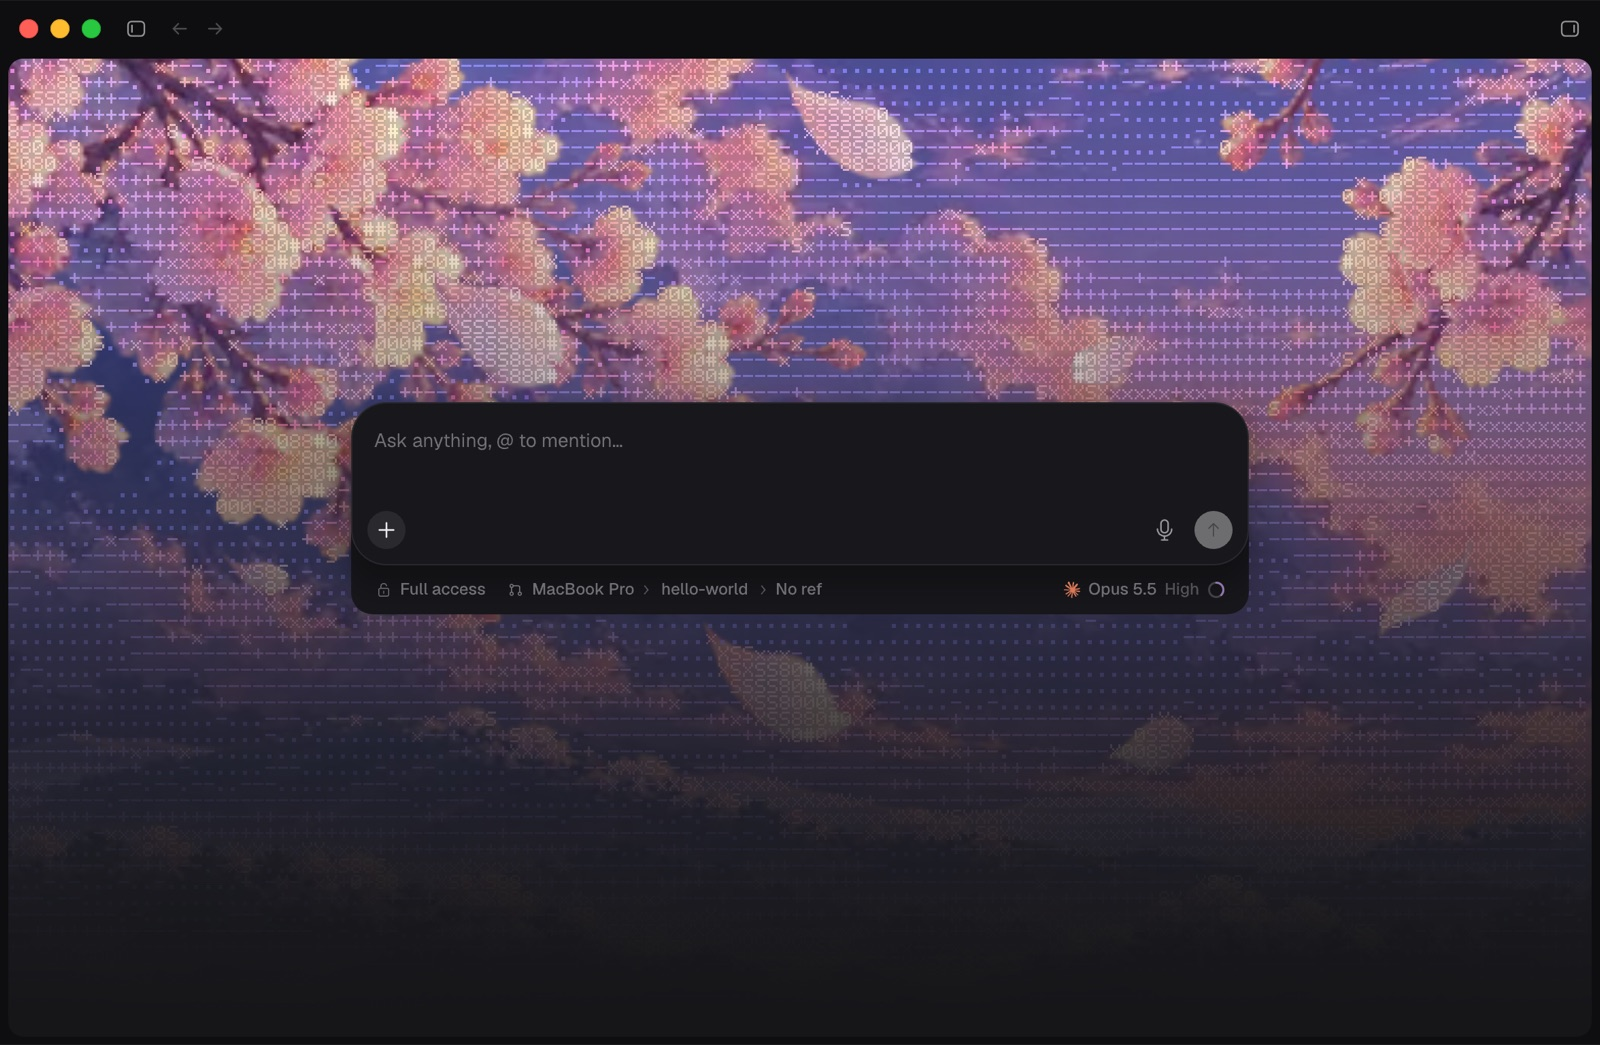
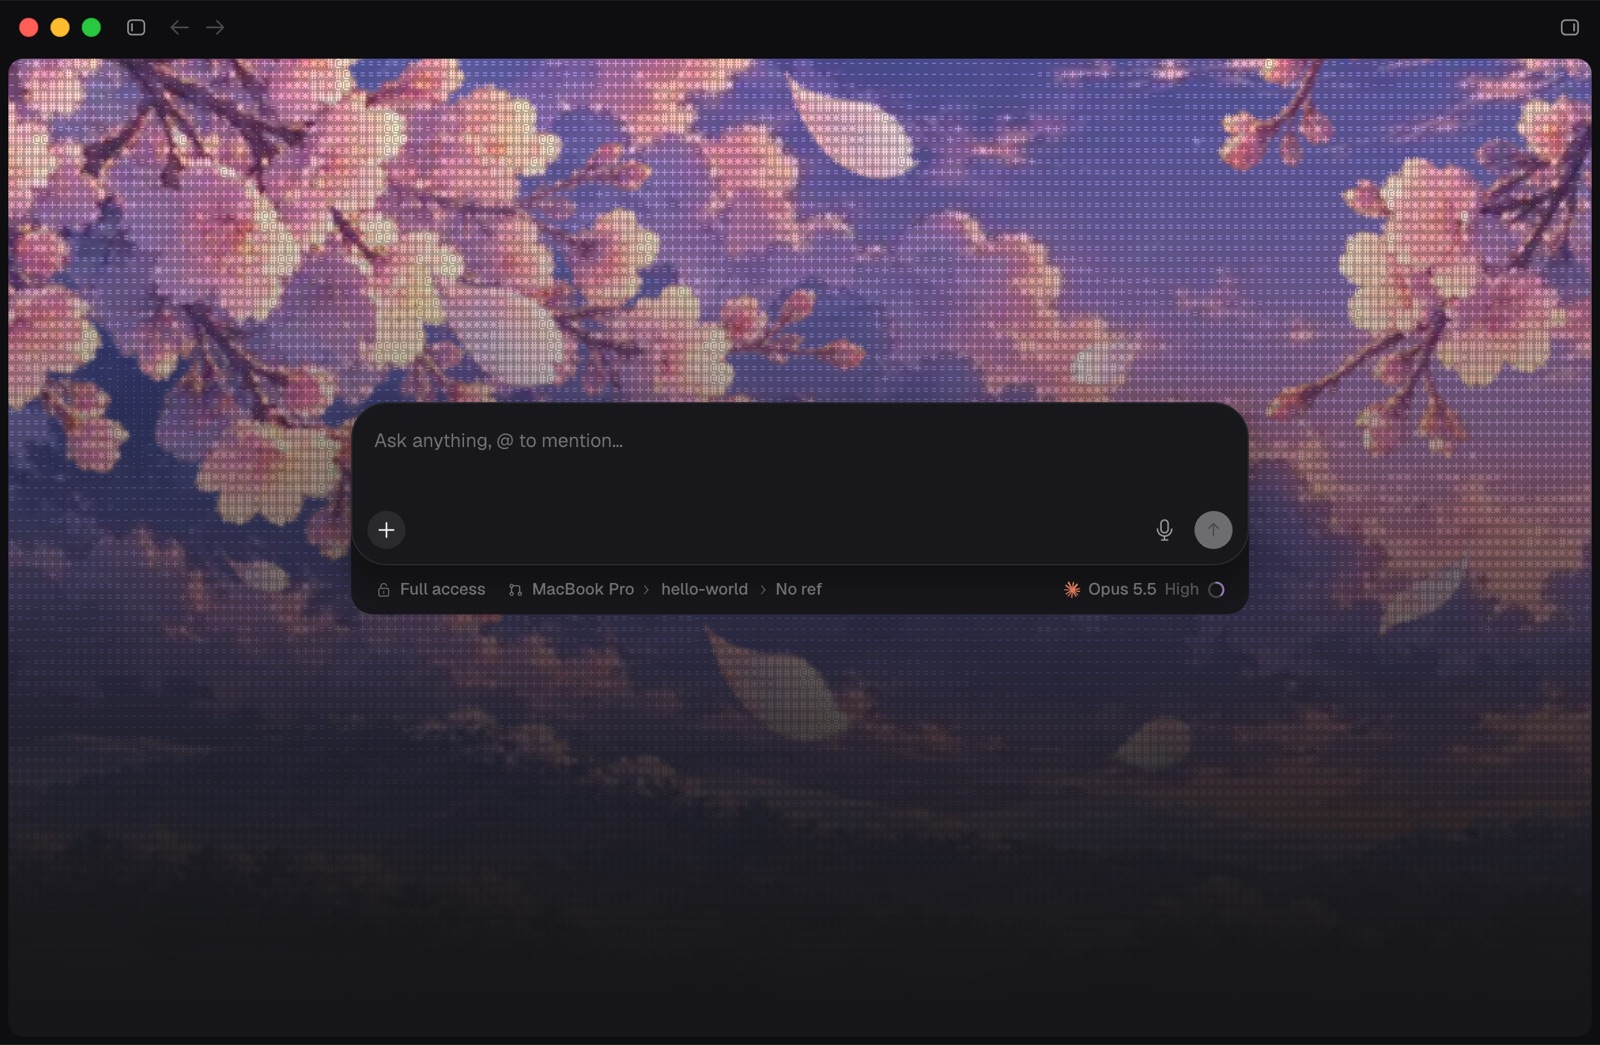
Landing hero: zeron/zgx's look, as the app people download
The hero now draws as zeron/zgx draws its new chat: that branch's ASCII
over the art's own box, and its title strip (the row on the lights'
20-point line, back and forward 21 across in the glyph stroke). Against a
native reference from zeron/zgx: MAE 0.03/255 at rest.

Changed region(s): [[0.0, 0.0306, 1.0, 0.6124], [0.9375, 0.5818, 0.9688, 0.6124]]

diff --git a/apps/landing/public/hero/chrome.js b/apps/landing/public/hero/chrome.js
@@ -76,7 +76,13 @@ const C = {
 // ---------------------------------------------------------------- icons
 
 // ds/icon_svgs.luau, as the app draws them (currentColor is the tint).
+// (A title bar's back and forward, as zeron/zgx draws them: 21 across, their
+// lines in the theme's glyph stroke, 1.1667 points: ds/icon.luau
+// `in_glyph_stroke`.)
+const BAR_STROKE = (1.1667 * 24) / 21;
 const ICONS = {
+  "bar-left": `<svg xmlns="http://www.w3.org/2000/svg" viewBox="0 0 24 24" fill="none" stroke="currentColor" stroke-width="${BAR_STROKE}" stroke-linecap="round" stroke-linejoin="round"><path d="M19 12H5m5.5-5.5L5 12l5.5 5.5"/></svg>`,
+  "bar-right": `<svg xmlns="http://www.w3.org/2000/svg" viewBox="0 0 24 24" fill="none" stroke="currentColor" stroke-width="${BAR_STROKE}" stroke-linecap="round" stroke-linejoin="round"><path d="M5 12h14m-5.5-5.5L19 12l-5.5 5.5"/></svg>`,
   monitor: '<svg xmlns="http://www.w3.org/2000/svg" width="1em" height="1em" viewBox="0 0 24 24"><g fill="none" stroke="currentColor" stroke-width="1.5"><path d="M2 10c0-3.771 0-5.657 1.172-6.828S6.229 2 10 2h4c3.771 0 5.657 0 6.828 1.172S22 6.229 22 10v1c0 2.828 0 4.243-.879 5.121C20.243 17 18.828 17 16 17H8c-2.828 0-4.243 0-5.121-.879C2 15.243 2 13.828 2 11z"/><path stroke-linecap="round" d="M16 22H8m4-5v5m10-9H2"/></g></svg>',
   cloud: '<svg xmlns="http://www.w3.org/2000/svg" viewBox="0 0 24 24" fill="none"><path d="M7.25 18.5h10.1a4.15 4.15 0 0 0 .45-8.27A6.25 6.25 0 0 0 5.9 8.85a4.85 4.85 0 0 0 1.35 9.65Z" stroke="currentColor" stroke-width="1.5" stroke-linecap="round" stroke-linejoin="round"/></svg>',
   "git-branch": '<svg xmlns="http://www.w3.org/2000/svg" viewBox="0 0 24 24" fill="none" stroke="currentColor" stroke-width="1.75" stroke-linecap="round" stroke-linejoin="round"><path d="M6 8.5v7M6 12h10a2 2 0 0 0 2-2V8.5"/><circle cx="6" cy="6.25" r="2.25"/><circle cx="6" cy="17.75" r="2.25"/><circle cx="18" cy="6.25" r="2.25"/></svg>',
@@ -326,11 +332,12 @@ function avatar(ctx, s, x, y, size) {
 }
 
 // macOS's window controls (native in the app: not in its own pictures):
-// 14-point lights centred 21 in and 23 apart (ds/title_bar.luau).
+// 14-point lights centred 21 in and 23 apart, on the bar's line, 20 down
+// (ds/title_bar.luau's LIGHTS_LINE on zeron/zgx).
 function trafficLights(ctx, s) {
   const lights = [["#ff5f57", "#e0443e"], ["#febc2e", "#dea123"], ["#28c840", "#1aab29"]];
   lights.forEach(([fill, edge], i) => {
-    const cx = 21 + i * 23, cy = 21;
+    const cx = 21 + i * 23, cy = 20;
     ctx.beginPath();
     ctx.arc(cx * s, cy * s, 7 * s, 0, Math.PI * 2);
     ctx.fillStyle = fill;
@@ -353,12 +360,14 @@ export function drawUnder(ctx, s, { lights = true } = {}) {
 
   // The title strip's controls (ds/title_bar.luau): 24-point buttons on
   // the line 21 down, their 16-point glyphs inside.
-  // (The sidebar's view options, "…", go with the sidebar.)
-  sidebarGlyph(ctx, s, 92, 13, "left", SIDEBAR_OPEN, ink(SECONDARY, "window"));
-  icon(ctx, s, "arrow-left", 124, 13, 16, ink(DISABLED, "window"));
-  icon(ctx, s, "arrow-right", 150, 13, 16, ink(DISABLED, "window"));
-  if (SIDEBAR_OPEN) icon(ctx, s, "more-horizontal", 182, 13, 16, ink(SECONDARY, "window"));
-  sidebarGlyph(ctx, s, W - 30, 13, "right", false, ink(SECONDARY, "window"));
+  // (zeron/zgx: the row on the lights' line, 20 down; the bar's ink
+  // #949496; back and forward 21 across in the glyph stroke. The sidebar's
+  // view options, "…", go with the sidebar.)
+  sidebarGlyph(ctx, s, 92, 12, "left", SIDEBAR_OPEN, ink(SECONDARY, "window"));
+  icon(ctx, s, "bar-left", 121.5, 9.5, 21, ink(DISABLED, "window"));
+  icon(ctx, s, "bar-right", 147.5, 9.5, 21, ink(DISABLED, "window"));
+  if (SIDEBAR_OPEN) icon(ctx, s, "more-horizontal", 182, 12, 16, ink(SECONDARY, "window"));
+  sidebarGlyph(ctx, s, W - 30, 12, "right", false, ink(SECONDARY, "window"));
 
   if (SIDEBAR_OPEN) sidebar(ctx, s);
 

diff --git a/apps/landing/public/hero/app.js b/apps/landing/public/hero/app.js
@@ -8,12 +8,19 @@
 import { mountScene } from "./scene.js";
 import { WINDOW, CARD_RADIUS, PAGE, NODE, drawUnder, drawOver, iconsReady } from "./chrome.js";
 
+// As the app people download draws it (zeron/zgx): the wallpaper's layer is
+// the art's box (the window's width from the page's right edge) under the
+// page card's clip, through that branch's ASCII.
+const ART_BOX = [NODE[0] + NODE[2] - WINDOW.w, NODE[1], WINDOW.w, NODE[3]];
+
 export const HERO = {
   label: "The Zeron app: a new chat over a cherry blossom scene drawn in characters",
   window: WINDOW,
   crop: [0, 0, WINDOW.w, WINDOW.h],
   scene: { slug: "blossom", layers: ["sky", "far", "near", "detail"] },
-  node: NODE,
+  node: ART_BOX,
+  clip: NODE,
+  effect: "ascii2",
   page: PAGE,
   radius: CARD_RADIUS - 1,
   pointer: "page",

diff --git a/apps/landing/tools/native/make-ui.py b/apps/landing/tools/native/make-ui.py
@@ -18,7 +18,8 @@ build that reads ZERON_ZGX_DEV_PLUGINS: the Parallax scenes plugin runs
 there as itself (no scene copied in), its scene set through its settings;
 `landing_<card>_fixture.luau` adds each card's state.
 
-usage: make-ui.py <repo> <out> [--card cat|machines|visuals|visualsbg]
+usage: make-ui.py <repo> <out> [--card cat|machines|visuals|visualsbg|hero]
+(hero: the hero's state on the cards' branch, Blossom through the real plugin)
 (visualsbg: the visuals card's ground, a new chat on Aurora with no chat open)
 """
 import re
@@ -91,7 +92,7 @@ ui.after(400, function()
 	require("@app/screens/shell/fit").toggle_sidebar()
 end)
 '''
-SCENES = {"cat": "wheat", "machines": "icebergs", "visuals": "aurora", "visualsbg": "aurora"}
+SCENES = {"cat": "wheat", "machines": "icebergs", "visuals": "aurora", "visualsbg": "aurora", "hero": "blossom"}
 if card:
     tail += f'''
 -- landing ({card}): the Parallax scenes plugin, loaded as itself

diff --git a/apps/landing/tools/native/README.md b/apps/landing/tools/native/README.md
@@ -137,7 +137,10 @@ drawn from **zeron/zgx** (what the beta ships), not main: that branch's
 wallpaper effects were rewritten (linear light, a paper, a new ASCII ramp
 ` .:-=+*#@` at 1.1-point font pixels, the fade in the shader, the layer the
 art's own box), and the cards port that ASCII (`FS_ASCII2` in
-`public/hero/wallpaper.js`). The hero still draws main's.
+`public/hero/wallpaper.js`). The hero draws zeron/zgx's look too (its
+ASCII, its title strip: the row on a 20-point line, 21-point arrows in the
+glyph stroke): against that branch's native hero (`--card hero`), MAE
+0.03/255 at rest (title strip 0.02, wallpaper 0.03, composer 0.21).
 
 | card | scene | what it shows |
 |---|---|---|
